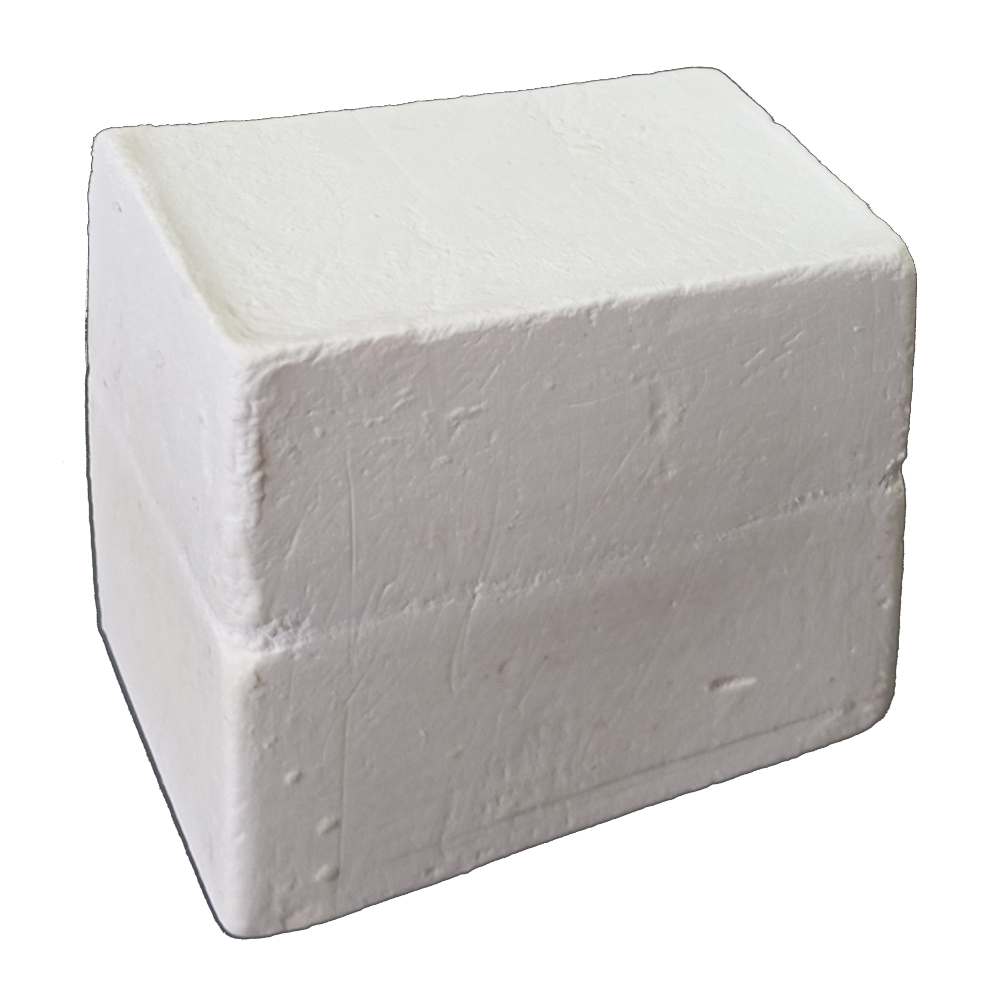
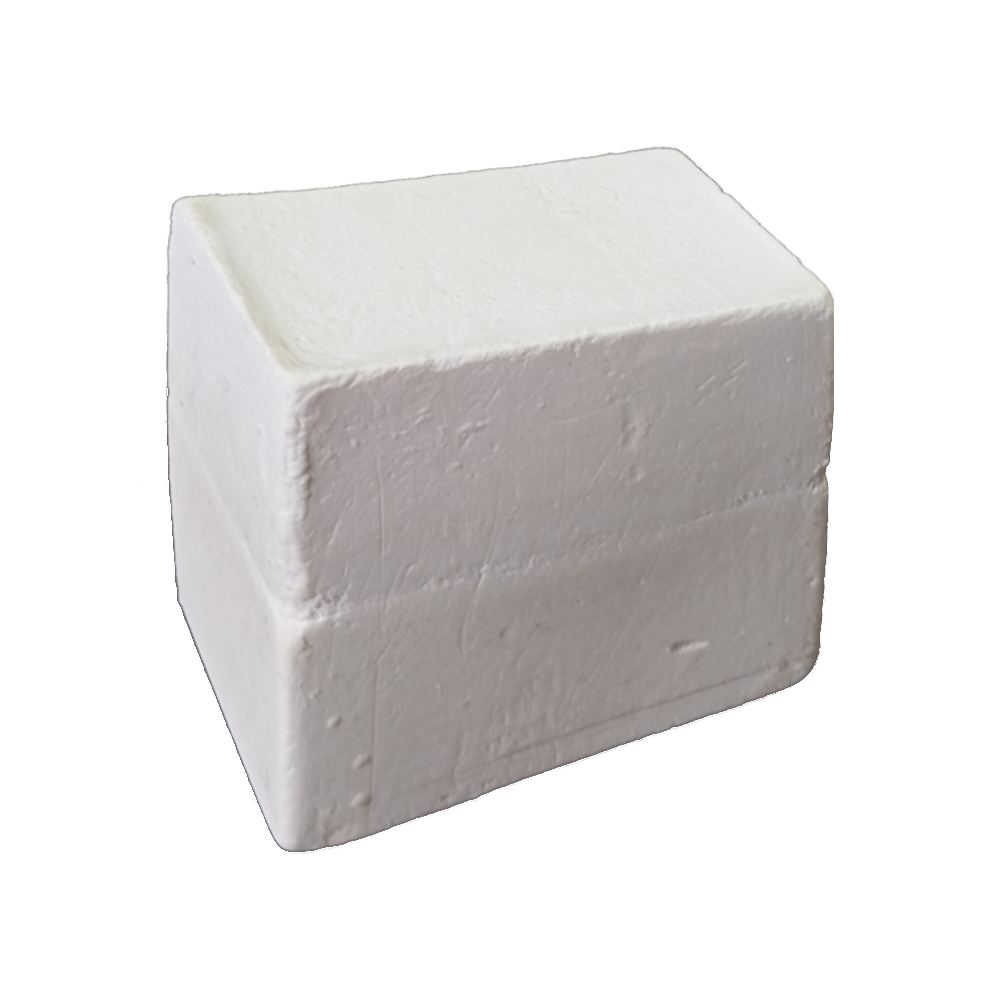
swhite image reduced, one maejoo added for carousel

Changed region(s): [[0.062, 0.062, 0.93, 0.961], [0.682, 0.62, 0.713, 0.651]]

diff --git a/src/component/soaps/soapImages.js b/src/component/soaps/soapImages.js
@@ -92,5 +92,27 @@ export const soapImages = [
     height: 1000,
     desc: "백설공주의 하나 입니다. 소다회가 6면체 중, 율무 층의 외부면을 모두 덮은 "
     + "경우입니다. 어성초층 보다 율무층에 소다회가 끼는 비율이 높습니다."
+  },
+  {
+    id: 10,
+    name: "백설공주 - 정면도",
+    shape: "s-white",
+    image: "white-front.png",
+    width: 1000,
+    height: 1000,
+    desc: "다른 백설공주 비누의 정면도입니다. 비누 외부 전체가 소다회로 덮여있어서 "
+    + "비누의 역할을 하런지 의심스러울 수 있으나, 비누를 사용해 보면 이런 염려가 "
+    + "기우였음을 알 수 있습니다."
+  },
+  {
+    id: 11,
+    name: "메주비누 - 정면도",
+    shape: "maejoo",
+    image: "maejoo-front.png",
+    width: 1000,
+    height: 1000,
+    desc: "메주비누를 정면에서 본 모습이다. 어성초층을 원액과 섞는 과정에서 "
+    + "조기에 응고되어 더 이상 풀리지 않은 결과이다. 이런 고온 발생 특성의 "
+    + "다른 특성은 향기가 보다 청아한 느낌을 준다는 것이다."
   }
 ];

diff --git a/src/component/soaps/BumShapes.jsx b/src/component/soaps/BumShapes.jsx
@@ -7,6 +7,7 @@ import SoapImages from "./SoapImages.jsx";
 const BumShapes = () => {
   const normalSoaps = soapImages.filter((soap) => soap.shape === "normal");
   const sWhiteSoaps = soapImages.filter((soap) => soap.shape === "s-white");
+  const maejooSoaps = soapImages.filter((soap) => soap.shape === "maejoo");
 
   const handleSoapShapeSelect = (key) => {
     localStorage.setItem("SOAP_INTRO_TAB", key);
@@ -125,7 +126,11 @@ const BumShapes = () => {
             />
           </Tab>
           <Tab eventKey="steps" title={<h5 className="tabLabel">메주비누</h5>}>
-            {/* <ProduceSteps /> */}
+            <SoapImages
+              soapImages={maejooSoaps}
+              bgColor="#667180"
+              indColor="#a9b2bfff"
+            />
           </Tab>
         </Tabs>
       </Row>
